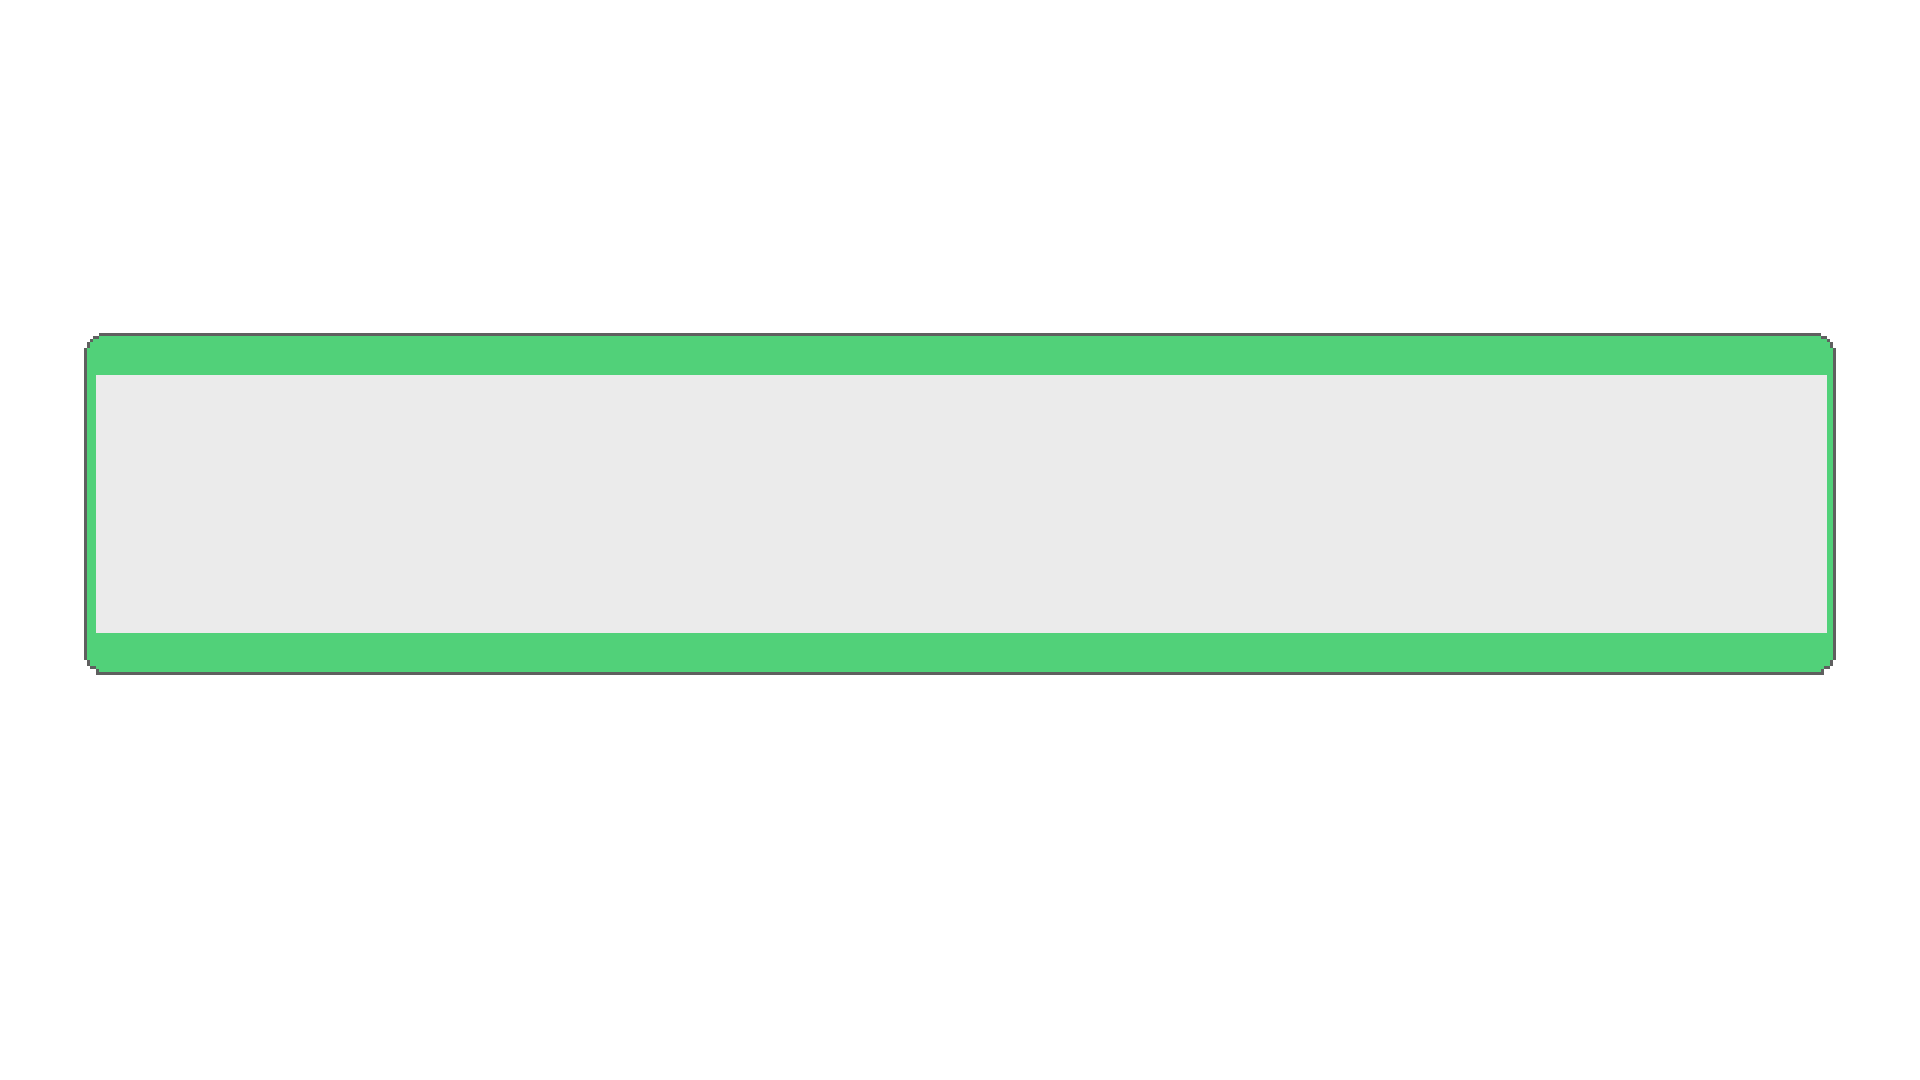
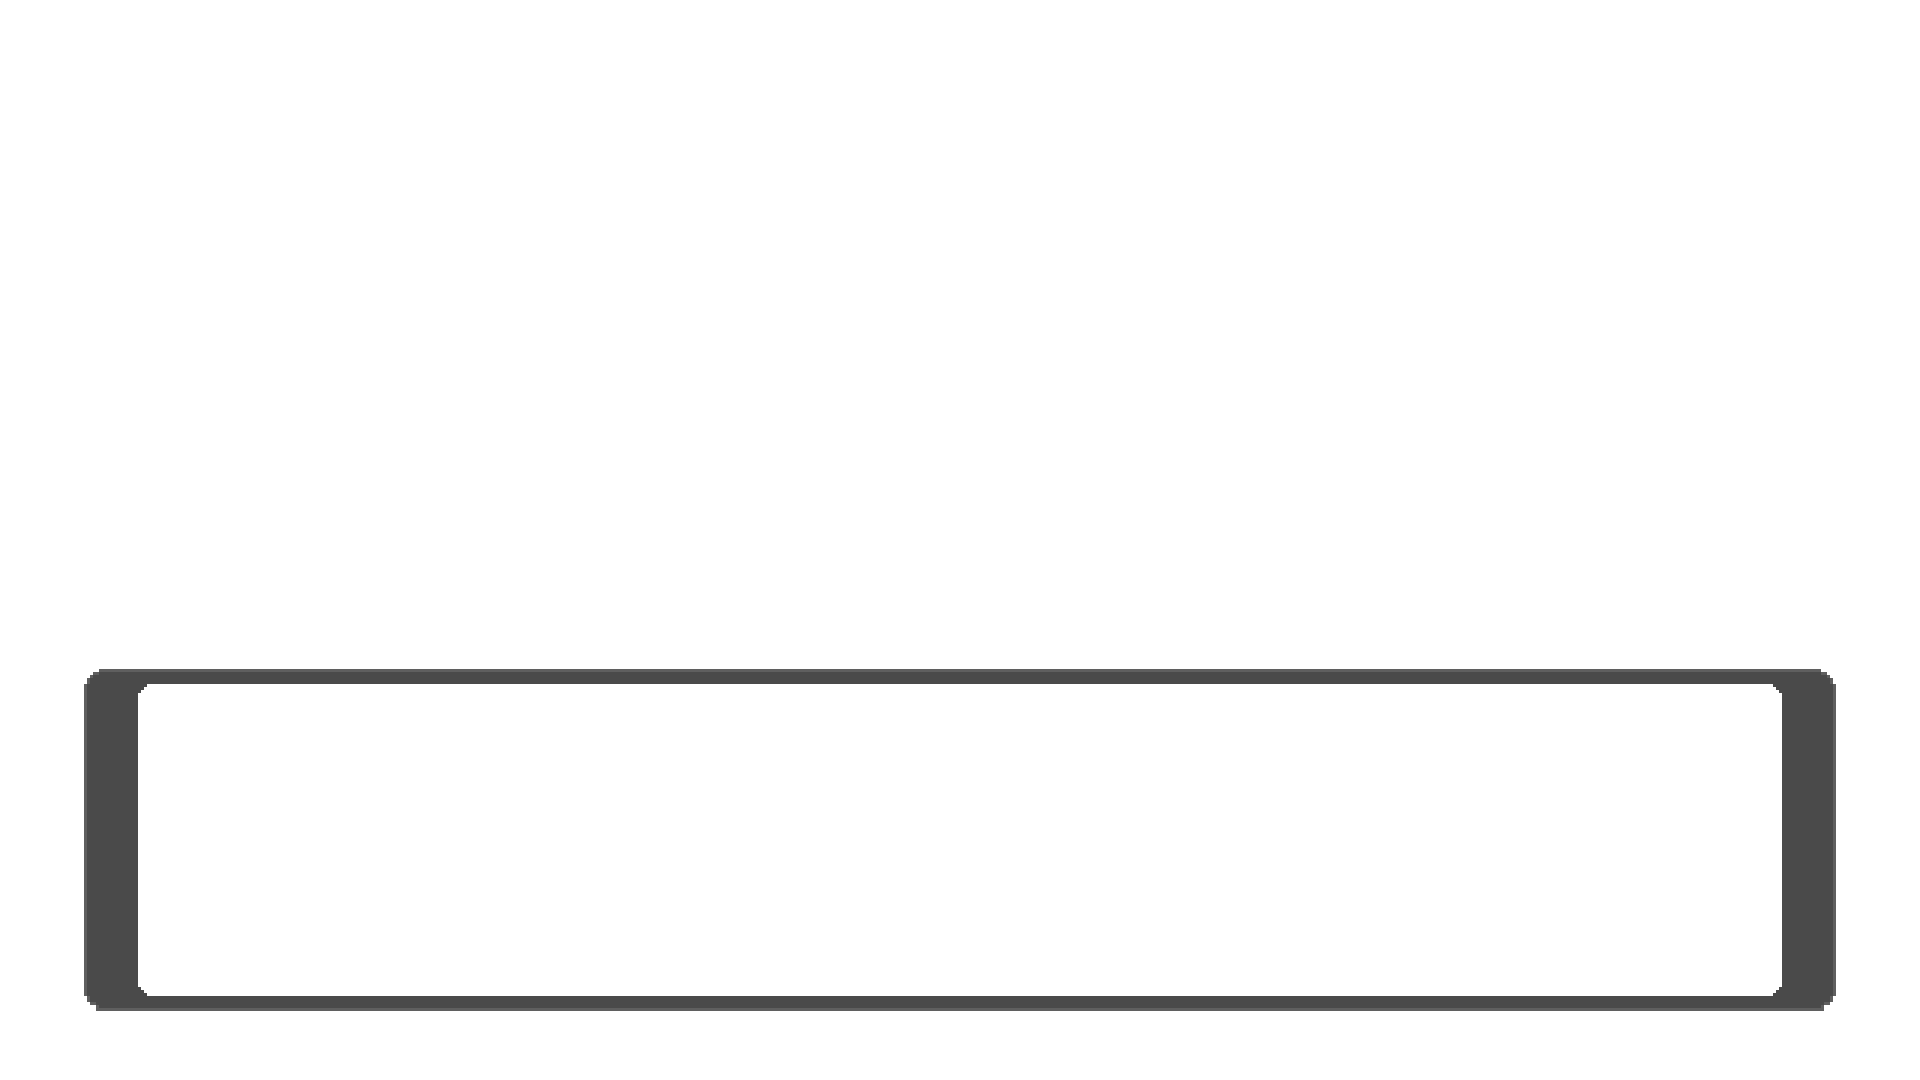
튜토리얼 에셋 위치 잡아놓음.
실제 동작과 연계되는 부분(실루엣 2개, 게이지 바의 위치)은 서우가 봐줘야 함.

Changed region(s): [[0.0312, 0.3056, 0.9688, 0.9472]]

diff --git a/tutorial1.js b/tutorial1.js
@@ -21,51 +21,101 @@ class Tutorial1 {
 
     // 해당 cut에 알맞은 화면을 표시한다
     display(){
+        let messageX = width / 2
+        let messageY = height * 690 / 918.5625; 
+        let silX1 = width / 2;
+        let silX2 = width / 2;
+        let silY = height / 2;
+        let silW = width * 0.8;
+        let silH = height * 0.8;
+        
         // 기본 화면 요소
         background(255);
+        imageMode(CENTER, CENTER);
         image(tutorial1_ui[0], width/2, height/2, width, height);
-        textSize(25);
-        textAlign(CENTER, CENTER)
-        fill(81, 209, 121);
-        text(this.dialogue[this.cut], width/2, height/2);
+        textSize(30);
+        textAlign(CENTER, CENTER);
+        // textAlign(CENTER, CENTER);
+        // fill(81, 209, 121);
+        fill(0);
+        text(this.dialogue[this.cut], messageX, messageY);
+        imageMode(CENTER)
+        // image(tutorial1_ui[1], width / 2, height / 2, width, height);
+        // rect(width*17/100, height * 17 / 100, width * 4.5 / 100, height * 35 / 100);
+        
+
 
         switch(this.cut){ // 그림도 있는 경우
             case 3:
+                imageMode(CENTER);
+                if (frameCount % 60 < 15) image(tutorial1_sil[0], silX1, silY, silW, silH); // sil
+                else if (frameCount % 60 >= 15 && frameCount % 45 < 30) image(tutorial1_sil[1], silX1, silY, silW, silH);
+                else if (frameCount % 60 >= 30 && frameCount % 60 < 45) image(tutorial1_sil[2], silX1, silY, silW, silH);
+                else image(tutorial1_sil[1], silX1, silY, silW, silH);
+                if (frameCount % 60 < 15) image(tutorial1_sil[3], silX2, silY, silW, silH); // sil
+                else if (frameCount % 60 >= 15 && frameCount % 45 < 30) image(tutorial1_sil[4], silX2, silY, silW, silH);
+                else if (frameCount % 60 >= 30 && frameCount % 60 < 45) image(tutorial1_sil[5], silX2, silY, silW, silH);
+                else image(tutorial1_sil[4], silX2, silY, silW, silH);
+                break;
             case 4:
-                image(tutorial1_ui[1], width/2, height/2, width, height);
-                if (frameCount % 60 < 15) image(tutorial1_sil[0], width / 10 + 20, height / 2 - 20 + 80, 300, 300); // sil
-                else if (frameCount % 60 >= 15 && frameCount % 45 < 30) image(tutorial1_sil[1], width / 10 + 20, height / 2 - 20 + 80, 300, 300);
-                else if (frameCount % 60 >= 30 && frameCount % 60 < 45) image(tutorial1_sil[2], width / 10 + 20, height / 2 - 20 + 80, 300, 300);
-                else image(tutorial1_sil[1], width / 10 + 20, height / 2 - 20 + 80, 300, 300);
+                // image(tutorial1_ui[1], width/2, height/2, width, height);
+                imageMode(CENTER);
+                if (frameCount % 60 < 15) image(tutorial1_sil[0], silX1, silY, silW, silH); // sil
+                else if (frameCount % 60 >= 15 && frameCount % 45 < 30) image(tutorial1_sil[1], silX1, silY, silW, silH);
+                else if (frameCount % 60 >= 30 && frameCount % 60 < 45) image(tutorial1_sil[2], silX1, silY, silW, silH);
+                else image(tutorial1_sil[1], silX1, silY, silW, silH);
+                if (frameCount % 60 < 15) image(tutorial1_sil[3], silX2, silY, silW, silH); // sil
+                else if (frameCount % 60 >= 15 && frameCount % 45 < 30) image(tutorial1_sil[4], silX2, silY, silW, silH);
+                else if (frameCount % 60 >= 30 && frameCount % 60 < 45) image(tutorial1_sil[5], silX2, silY, silW, silH);
+                else image(tutorial1_sil[4], silX2, silY, silW, silH);
+                // else image(tutorial1_sil[1], width / 10 + 20, height / 2 - 20 + 80, 300, 300);
+
                 break;
 
             case 5:
-                image(tutorial1_ui[1], width/2, height/2, width, height);
-                image(tutorial1_sil[2], width/2, height/2, 300, 300);
-                image(tutorial1_sil[2], width/2 + 350, height/2, 300, 300);
+                // image(tutorial1_ui[1], width/2, height/2, width, height);
+                // image(tutorial1_sil[2], width/2, height/2, 300, 300);
+                // image(tutorial1_sil[2], width/2 + 350, height/2, 300, 300);
+                imageMode(CENTER);
+                if (frameCount % 60 < 15) image(tutorial1_sil[0], silX1, silY, silW, silH); // sil
+                else if (frameCount % 60 >= 15 && frameCount % 45 < 30) image(tutorial1_sil[1], silX1, silY, silW, silH);
+                else if (frameCount % 60 >= 30 && frameCount % 60 < 45) image(tutorial1_sil[2], silX1, silY, silW, silH);
+                else image(tutorial1_sil[1], silX1, silY, silW, silH);
+                if (frameCount % 60 < 15) image(tutorial1_sil[3], silX2, silY, silW, silH); // sil
+                else if (frameCount % 60 >= 15 && frameCount % 45 < 30) image(tutorial1_sil[4], silX2, silY, silW, silH);
+                else if (frameCount % 60 >= 30 && frameCount % 60 < 45) image(tutorial1_sil[5], silX2, silY, silW, silH);
+                else image(tutorial1_sil[4], silX2, silY, silW, silH);
                 break;
 
-            case 6:
+            case 6: //좌측의 바는 덤벨의 실시간 위치를 나타냅니다.
                 image(tutorial1_ui[1], width/2, height/2, width, height);
-                image(tutorial1_sil[2], width/2, height/2, 300, 300);
-                image(tutorial1_sil[2], width/2 + 350, height/2, 300, 300);
+                if (frameCount % 60 < 15) image(tutorial1_sil[0], silX1, silY, silW, silH); // sil
+                else if (frameCount % 60 >= 15 && frameCount % 45 < 30) image(tutorial1_sil[1], silX1, silY, silW, silH);
+                else if (frameCount % 60 >= 30 && frameCount % 60 < 45) image(tutorial1_sil[2], silX1, silY, silW, silH);
+                else image(tutorial1_sil[1], silX1, silY, silW, silH);
+                if (frameCount % 60 < 15) image(tutorial1_sil[3], silX2, silY, silW, silH); // sil
+                else if (frameCount % 60 >= 15 && frameCount % 45 < 30) image(tutorial1_sil[4], silX2, silY, silW, silH);
+                else if (frameCount % 60 >= 30 && frameCount % 60 < 45) image(tutorial1_sil[5], silX2, silY, silW, silH);
+                else image(tutorial1_sil[4], silX2, silY, silW, silH);
                 this.drawDumbbell(this.y);
                 stroke(81, 209, 121);
                 noFill();
-                if (frameCount % 30 < 15) rect(width/2 - 350, height/2, 100, 300);
+                rectMode(CORNER);
+                if (frameCount % 30 < 15) rect(width*17/100, height * 22 / 100, width * 4.5 / 100, height * 30 / 100);
                 break;
             
-            case 7:
+            case 7: //팔꿈치를 고정하고 주황색 선까지 덤벨을 천천히 내려주세요. **내려가는 화살표 추가
+                imageMode(CENTER);
                 image(tutorial1_ui[1], width/2, height/2, width, height);
-                image(tutorial1_sil[2], width/2, height/2, 300, 300);
-                image(tutorial1_sil[2], width/2 + 350, height/2, 300, 300);
+                image(tutorial1_sil[2], silX1, silY, silW, silH);
+                image(tutorial1_sil[5], silX2, silY, silW, silH);
                 this.drawDumbbell(this.y);
                 break;
             
-            case 8:
+            case 8: //아주 좋습니다!\n팔꿈치를 고정하고 팔을 접어 덤벨을 초록색 선까지 올려주세요. //올라가는 화살표 추가
                 image(tutorial1_ui[1], width/2, height/2, width, height);
-                image(tutorial1_sil[2], width/2, height/2, 300, 300);
-                image(tutorial1_sil[2], width/2 + 350, height/2, 300, 300);
+                image(tutorial1_sil[0], silX1, silY, silW, silH);
+                image(tutorial1_sil[3], silX2, silY, silW, silH);
                 this.drawDumbbell(this.y);
                 break;
             
@@ -113,6 +163,6 @@ class Tutorial1 {
         let maxY = height*2/5 + 100;
         let minY = height*2/5 - 100;
         let dumbbellY = y/height * (minY - maxY);
-        image(tutorial1_ui[2], width/ 2 - 10, minY - dumbbellY + 150, width, height);
+        image(tutorial1_ui[2], width/ 2, minY - dumbbellY + 150, width, tutorial1_ui.height);
     }
 }

diff --git a/tutorial0.js b/tutorial0.js
@@ -5,18 +5,20 @@ class Tutorial0 {
         this.dialogue = ["이 게임은 1인용 게임입니다.\n혼자서 즐겨주시기 바랍니다.",
                         "이 게임은 앉아서 진행됩니다.\n의자가 바닥에 표시된 위치에 올바르게 위치했는지 확인하십시오.",
                         "이제 의자에 앉아주십시오.",
-                        "게임 중에는 초보자용 덤벨(1kg)과 숙련자용 덤벨(3kg) 중 자신의 신체에 맞는 도구를 사용해주세요.",
+                        "게임 중에는 초보자용 덤벨(1kg)과 숙련자용 덤벨(3kg) 중\n자신의 신체에 맞는 도구를 사용해주세요.",
                         "득근을 빕니다!"];
     }
 
     // 해당 컷에 맞는 화면을 그린다
     display(){
+        let messageX = width / 2
+        let messageY = height * 690 / 918.5625; 
         background(255);
         image(tutorial0_ui[0], width/2, height/2, width, height);
-        textSize(25);
-        textAlign(CENTER, CENTER)
-        fill(81, 209, 121);
-        text(this.dialogue[this.cut], width/2, height/2);
+        textSize(30);
+        textAlign(CENTER, TOP);
+        fill(0);
+        text(this.dialogue[this.cut], messageX, messageY);
     }
 
     // 현재 cut을 반환한다 - sketch.js에서 사용

diff --git a/sketch.js b/sketch.js
@@ -9,8 +9,8 @@
 
 
 // 게임 단계 - phase, scene, cut(각 클래스 안에서 다룸)
-let phase = 0;
-let scene = 0;
+let phase = 1;
+let scene = 3;
 
 // phase0의 클래스 - start
 let gameTitle;
@@ -300,7 +300,7 @@ function preload(){
   for(let i=0; i<3; i++){
     tutorial1_ui[i] = loadImage('assets/phase1/tutorial1/ui/' + i + '.png');
   }
-  for(let i=0; i<3; i++){
+  for(let i=0; i<6; i++){
     tutorial1_sil[i] = loadImage('assets/phase1/tutorial1/sil/' + i + '.png');
   }
 
